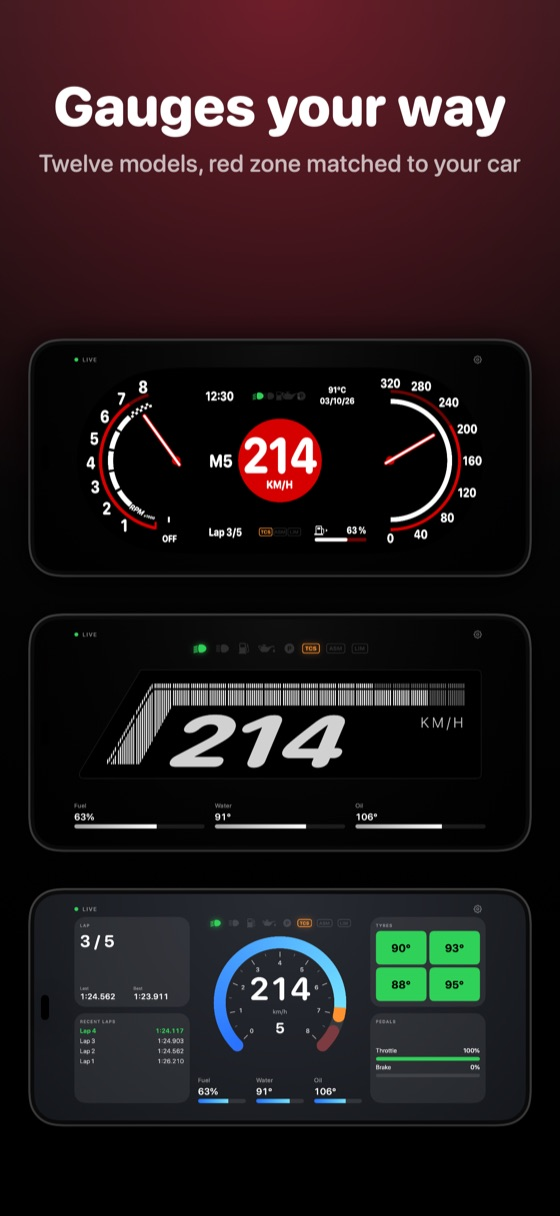
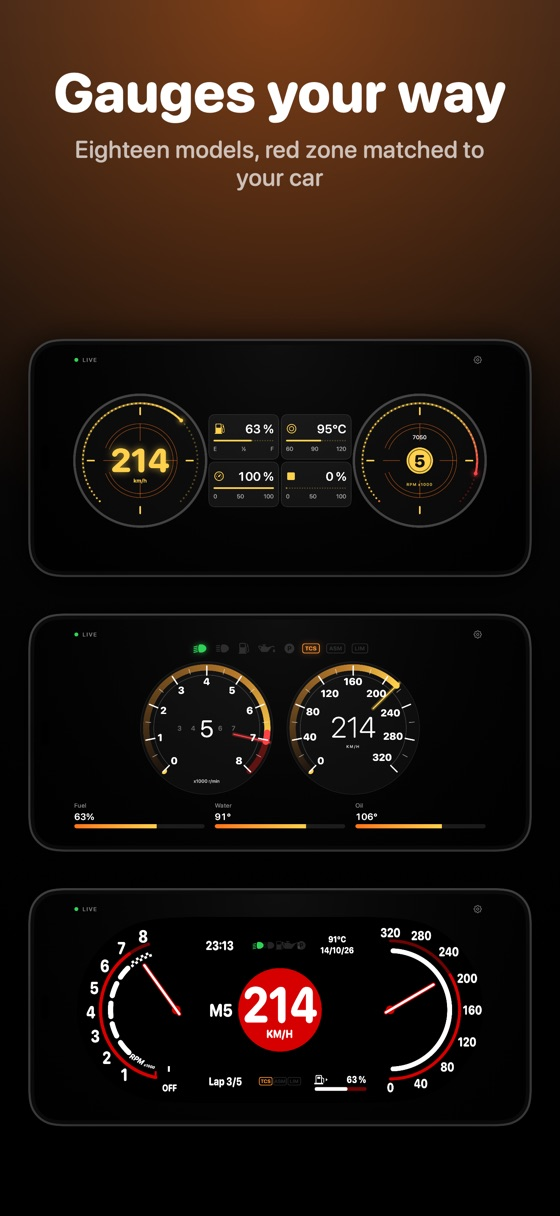
Website up to date with 1.4: eighteen gauge models, the gauge screenshot with the new ones, and a What's New in 1.4 section

diff --git a/index.html b/index.html
@@ -52,8 +52,8 @@ try{var l=localStorage.getItem('lang')||((navigator.language||'es').slice(0,2)==
     <img lang="en" src="img/en-m1.jpg" width="560" height="1216" loading="lazy" alt="Your circuit, live: the track map with your car on it">
     <img lang="es" src="img/es-m2.jpg" width="560" height="1216" loading="lazy" alt="RADIO, tu ingeniero de carrera">
     <img lang="en" src="img/en-m2.jpg" width="560" height="1216" loading="lazy" alt="RADIO, your race engineer">
-    <img lang="es" src="img/es-m3.jpg" width="560" height="1216" loading="lazy" alt="Indicadores a tu gusto: tres de los doce modelos">
-    <img lang="en" src="img/en-m3.jpg" width="560" height="1216" loading="lazy" alt="Gauges your way: three of the twelve models">
+    <img lang="es" src="img/es-m3.jpg" width="560" height="1216" loading="lazy" alt="Indicadores a tu gusto: tres de los dieciocho modelos">
+    <img lang="en" src="img/en-m3.jpg" width="560" height="1216" loading="lazy" alt="Gauges your way: three of the eighteen models">
     <img lang="es" src="img/es-m4.jpg" width="560" height="1216" loading="lazy" alt="Delta, combustible y sectores">
     <img lang="en" src="img/en-m4.jpg" width="560" height="1216" loading="lazy" alt="Delta, fuel and sectors">
     <img lang="es" src="img/es-m5.jpg" width="560" height="1216" loading="lazy" alt="Cinco juegos, una sola app">
@@ -69,7 +69,7 @@ try{var l=localStorage.getItem('lang')||((navigator.language||'es').slice(0,2)==
   <h2><span lang="es">Todo lo que necesitas en pista</span><span lang="en">Everything you need on track</span></h2>
   <div class="grid">
     <div class="card"><h3><span lang="es">Un indicador central a tu gusto</span><span lang="en">A central gauge your way</span></h3>
-      <p><span lang="es">Elige entre doce modelos: anillo, sector grueso, aguja, marcas radiales, barra, segmentos y seis digitales — velocidad con barra de RPM, marcha con arco, LEDs estilo F1, siete segmentos y dos diseños propios, «Modern» y «e-Racecar». Mide RPM o velocidad, en km/h o mph, con tu color y zona roja ajustada a tu coche.</span><span lang="en">Pick from twelve models: ring, thick sector, needle, radial ticks, bar, segments, and six digital ones — speed with an RPM bar, gear with an arc, F1-style LEDs, seven-segment and two original designs, “Modern” and “e-Racecar”. Measures RPM or speed, in km/h or mph, with your colour and a red shift zone matched to your car.</span></p></div>
+      <p><span lang="es">Elige entre dieciocho modelos: anillo, sector grueso, aguja, marcas radiales, barra, segmentos y otros doce — velocidad con barra de RPM, marcha con arco, LEDs estilo F1, siete segmentos, tablero de boxes, cronógrafo, solo velocidad, columna de LEDs, doble esfera, cabina y dos diseños propios, «Modern» y «e-Racecar». Mide RPM o velocidad, en km/h o mph, con tu color y zona roja ajustada a tu coche.</span><span lang="en">Pick from eighteen models: ring, thick sector, needle, radial ticks, bar, segments, and twelve more — speed with an RPM bar, gear with an arc, F1-style LEDs, seven-segment, pit board, chronograph, speed only, LED column, twin dials, cockpit and two original designs, “Modern” and “e-Racecar”. Measures RPM or speed, in km/h or mph, with your colour and a red shift zone matched to your car.</span></p></div>
     <div class="card"><h3><span lang="es">Mapa del circuito y biblioteca</span><span lang="en">Track map and library</span></h3>
       <p><span lang="es">Desde la primera vuelta ves el trazado con tu coche en vivo, coloreado según ganas o pierdes tiempo. PitWall Ultra recuerda cada circuito y lo muestra completo la próxima vez; ponles nombre en Ajustes.</span><span lang="en">From the first lap you see the circuit's layout with your car live on it, coloured by where you gain or lose time. PitWall Ultra remembers every circuit you drive and shows it complete next time; name them in Settings.</span></p></div>
     <div class="card"><h3><span lang="es">RADIO, tu ingeniero de carrera</span><span lang="en">RADIO, your race engineer</span></h3>
@@ -92,15 +92,14 @@ try{var l=localStorage.getItem('lang')||((navigator.language||'es').slice(0,2)==
 </section>
 
 <section id="novedades">
-  <h2><span lang="es">Novedades de la versión 1.3</span><span lang="en">What's new in version 1.3</span></h2>
+  <h2><span lang="es">Novedades de la versión 1.4</span><span lang="en">What's new in version 1.4</span></h2>
   <div class="card">
     <ul class="news">
-      <li><span lang="es">Exporta los tiempos de tu carrera en <b>PDF o CSV</b>; se ofrecen al terminar y se guardan las últimas 10.</span><span lang="en">Export your race times as a <b>PDF or CSV</b>, offered when the race ends; the last 10 are kept.</span></li>
-      <li><span lang="es">La hoja muestra el <b>coche</b> (en GT7 se reconoce solo) y el <b>circuito</b>: si es nuevo, te lo pregunta o te lo propone por la longitud de la vuelta.</span><span lang="en">The sheet shows the <b>car</b> (GT7 recognises it by itself) and the <b>circuit</b>: if it is new, it asks or proposes it from the lap length.</span></li>
-      <li><span lang="es"><b>Mejor vuelta teórica</b> en los juegos que envían sectores.</span><span lang="en"><b>Theoretical best lap</b> in games that send sectors.</span></li>
-      <li><span lang="es">Al terminar la última vuelta, a los 3 segundos salta <b>«SIN DATOS»</b> y todo se reinicia para la siguiente carrera.</span><span lang="en">When the last lap ends, 3 seconds later it shows <b>“NO DATA”</b> and everything resets for the next race.</span></li>
-      <li><span lang="es">Nuevo ajuste <b>«Parpadeo en el limitador»</b>; con «Reducir movimiento» de iOS tampoco parpadea.</span><span lang="en">New <b>“Flash at the limiter”</b> setting; with iOS “Reduce Motion” on it does not flash either.</span></li>
-      <li><span lang="es">Con cambio de marchas en H, al pasar por punto muerto sale «N» en vez de «15». RADIO no avisa del combustible en carreras donde no se gasta.</span><span lang="en">With an H-pattern shifter, passing through neutral now shows “N” instead of “15”. RADIO no longer warns about fuel in races where none is used.</span></li>
+      <li><span lang="es"><b>Seis indicadores centrales nuevos</b>: «Tablero de boxes», «Cronógrafo», «Solo velocidad», «Columna de LEDs», «Doble esfera» y «Cabina» (dos relojes y cuatro rectángulos con lo que tú elijas).</span><span lang="en"><b>Six new central gauges</b>: “Pit board”, “Chronograph”, “Speed only”, “LED column”, “Twin dials” and “Cockpit” (two dials and four tiles that show what you choose).</span></li>
+      <li><span lang="es"><b>«LEDs F1»</b> ahora son 12 luces naranjas, rojas y azules, con un LED de aviso a cada lado: banderas, DRS y limitador.</span><span lang="en">The <b>“F1 LEDs”</b> gauge is now 12 orange, red and blue lights, with a warning LED on each side: flags, DRS and the pit limiter.</span></li>
+      <li><span lang="es">Todos los indicadores siguen tus ajustes de <b>color, grosor, puntas redondeadas y tipografía</b> (la Expandida ahora cambia de verdad).</span><span lang="en">Every gauge follows your <b>colour, thickness, round-ends and typeface</b> settings (Expanded now really changes the face).</span></li>
+      <li><span lang="es"><b>Ajustes reorganizados</b> en pantallas: Conexión, Indicador (con vista previa en vivo), Pantalla, Avisos, Carreras y Perfiles.</span><span lang="en"><b>Settings reorganised</b> into screens: Connection, Gauge (with a live preview), Display, Alerts, Races and Profiles.</span></li>
+      <li><span lang="es"><b>F1 25</b> ya no corta la sesión al acabar una vuelta en prácticas o clasificación; solo se desconecta cuando el juego deja de enviar datos, y recupera la conexión sola.</span><span lang="en"><b>F1 25</b> no longer ends the session after a lap in practice or qualifying; it only disconnects when the game stops sending data, and it reconnects by itself.</span></li>
     </ul>
   </div>
 </section>
